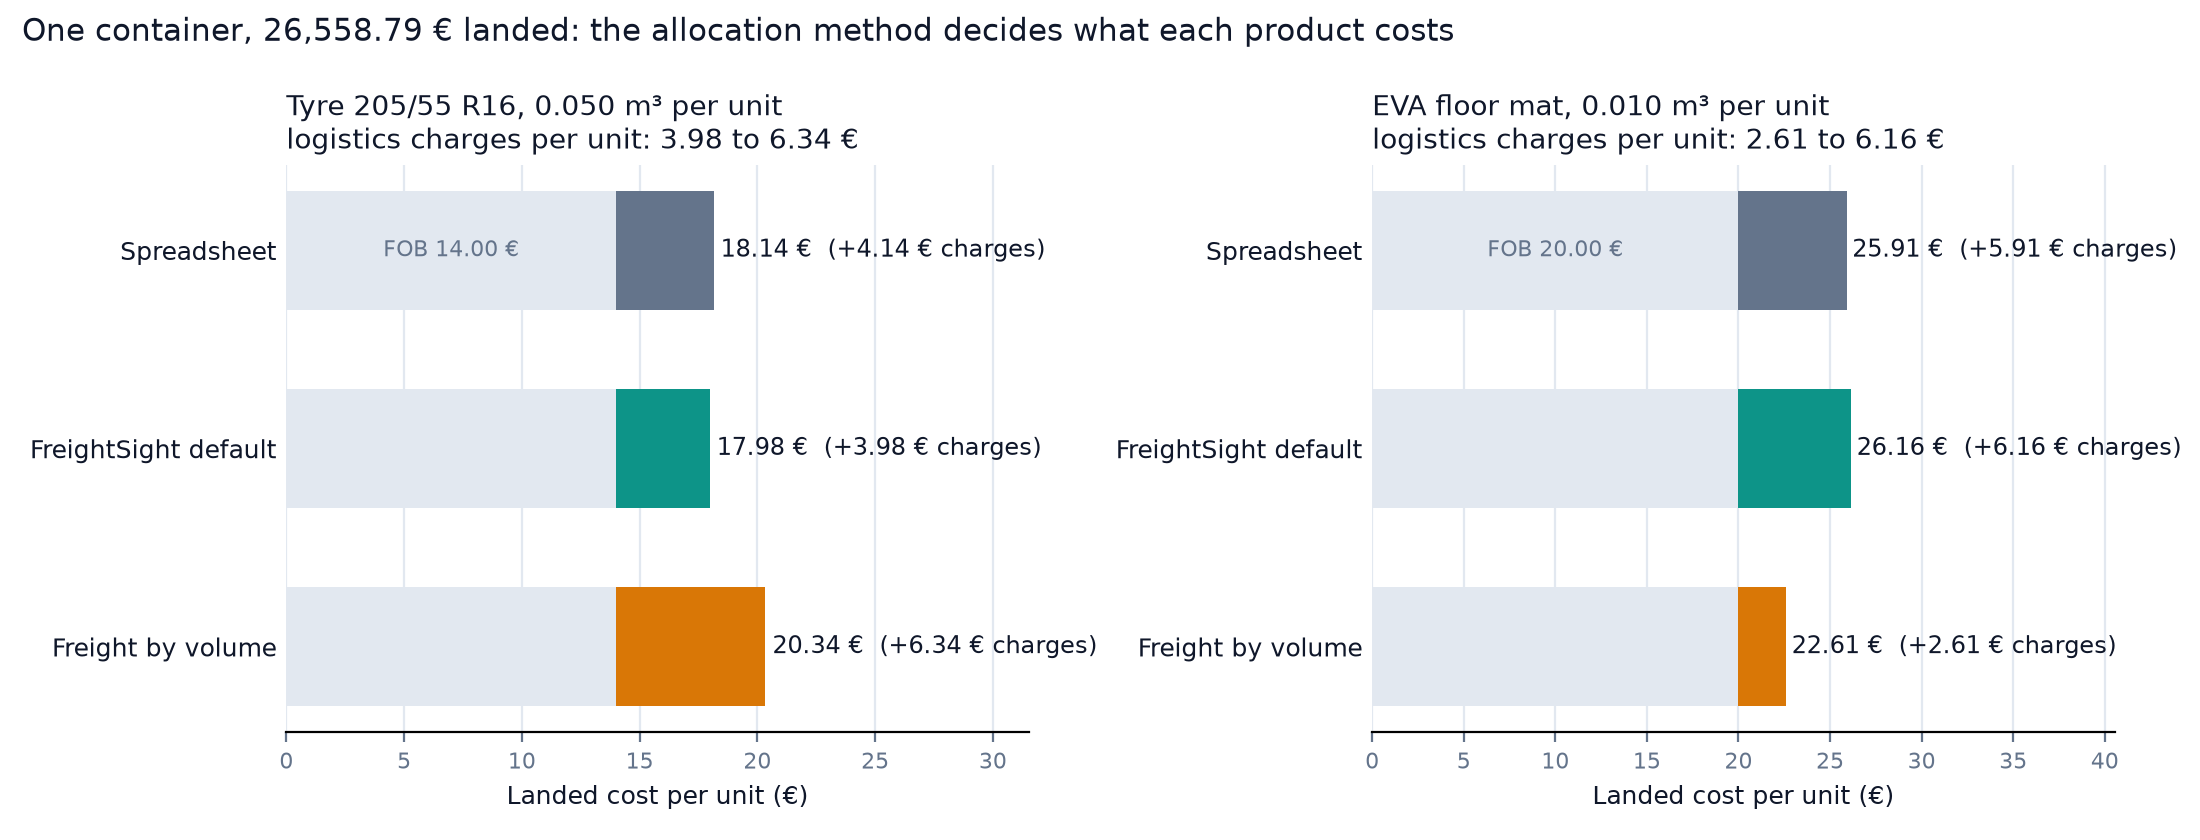
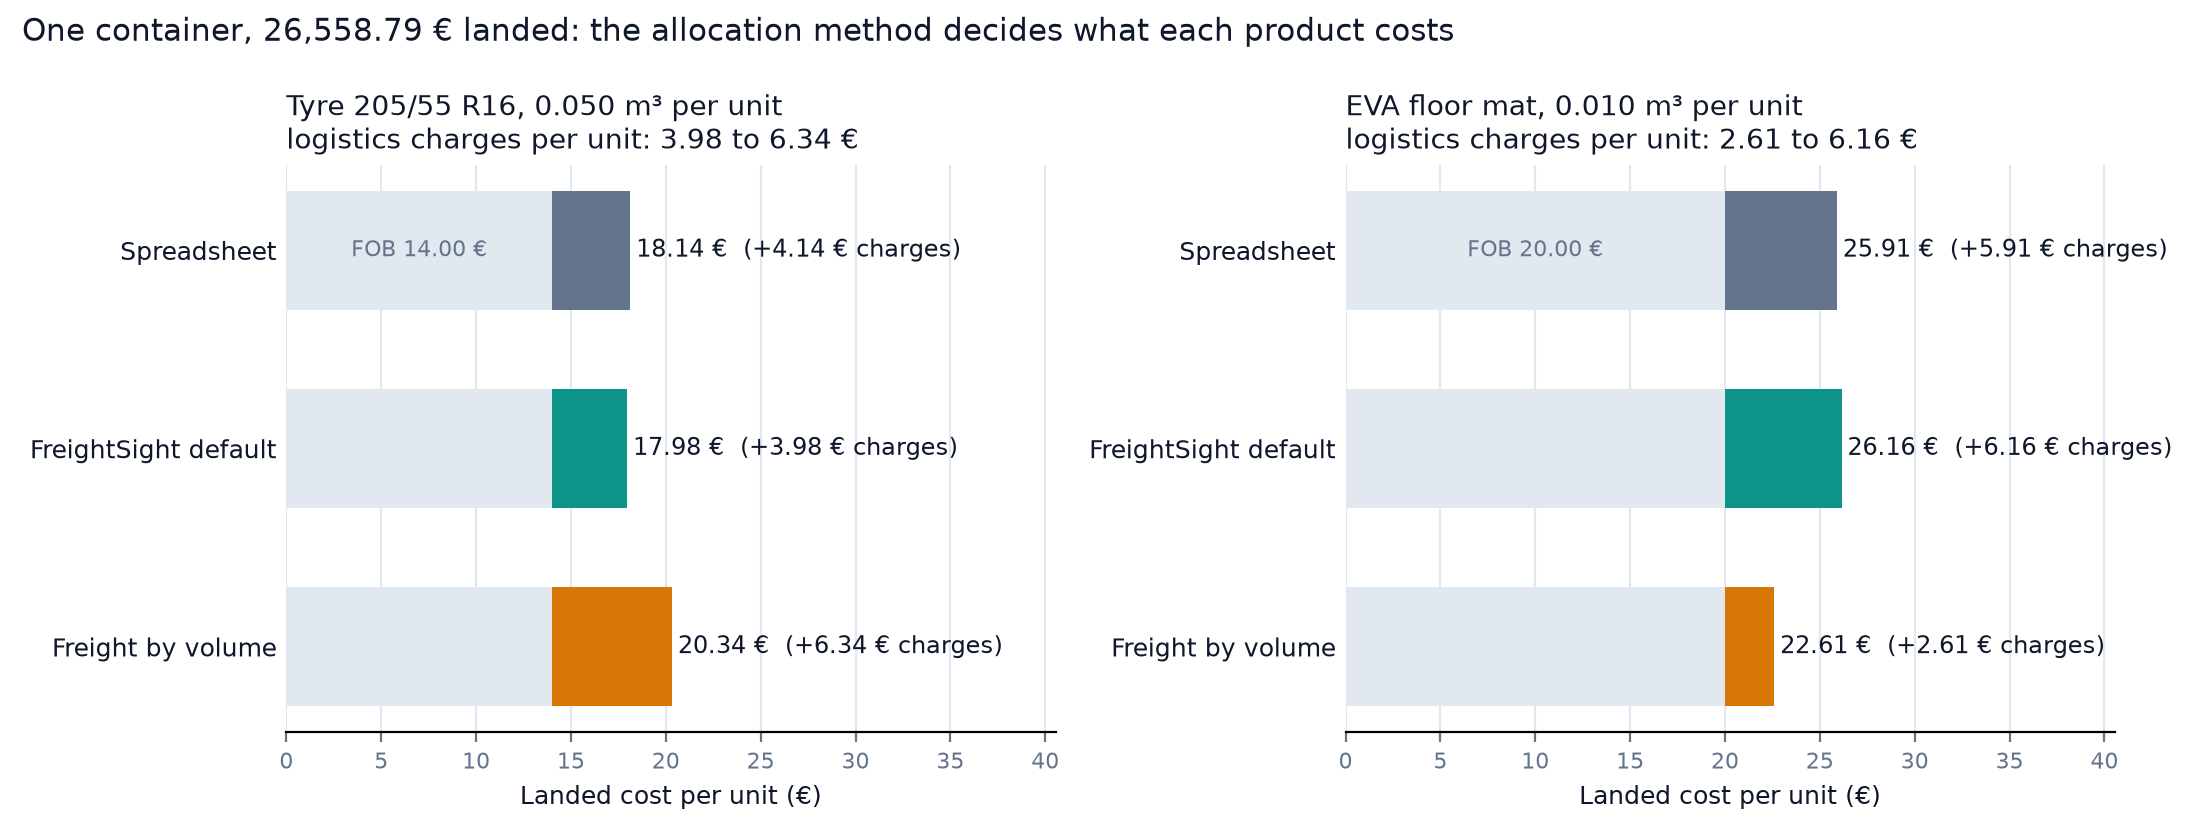
docs: worked-example figure shares one x scale across both products

diff --git a/backend/scripts/worked_example.py b/backend/scripts/worked_example.py
@@ -159,7 +159,9 @@ def figure(path: Path) -> None:
     ink, teal, amber, slate, grid = "#0f172a", "#0d9488", "#d97706", "#64748b", "#e2e8f0"
     colours = [slate, teal, amber]
     table = [unit_landed_costs(p) for p in POLICIES]
-    fig, axes = plt.subplots(1, 2, figsize=(11, 4.2), dpi=200)
+    # One x scale for both panels, so the charge bars compare across products.
+    xmax = max(float(t[line[0]]) for t in table for line in LINES) * 1.55
+    fig, axes = plt.subplots(1, 2, figsize=(11, 4.2), dpi=200, sharex=True)
     for ax, (sku, label, _, _, price, _, cbm, _) in zip(axes, LINES, strict=True):
         fob = float(price)
         landed = [float(t[sku]) for t in table]
@@ -172,7 +174,7 @@ def figure(path: Path) -> None:
             ax.text(v + 0.3, row, note, va="center", fontsize=8.5, color=ink)
         ax.set_yticks(list(rows), [p.name for p in POLICIES], fontsize=9, color=ink)
         ax.invert_yaxis()
-        ax.set_xlim(0, max(landed) * 1.55)
+        ax.set_xlim(0, xmax)
         ax.set_xlabel("Landed cost per unit (€)", color=ink, fontsize=9)
         charges = [v - fob for v in landed]
         ax.set_title(
